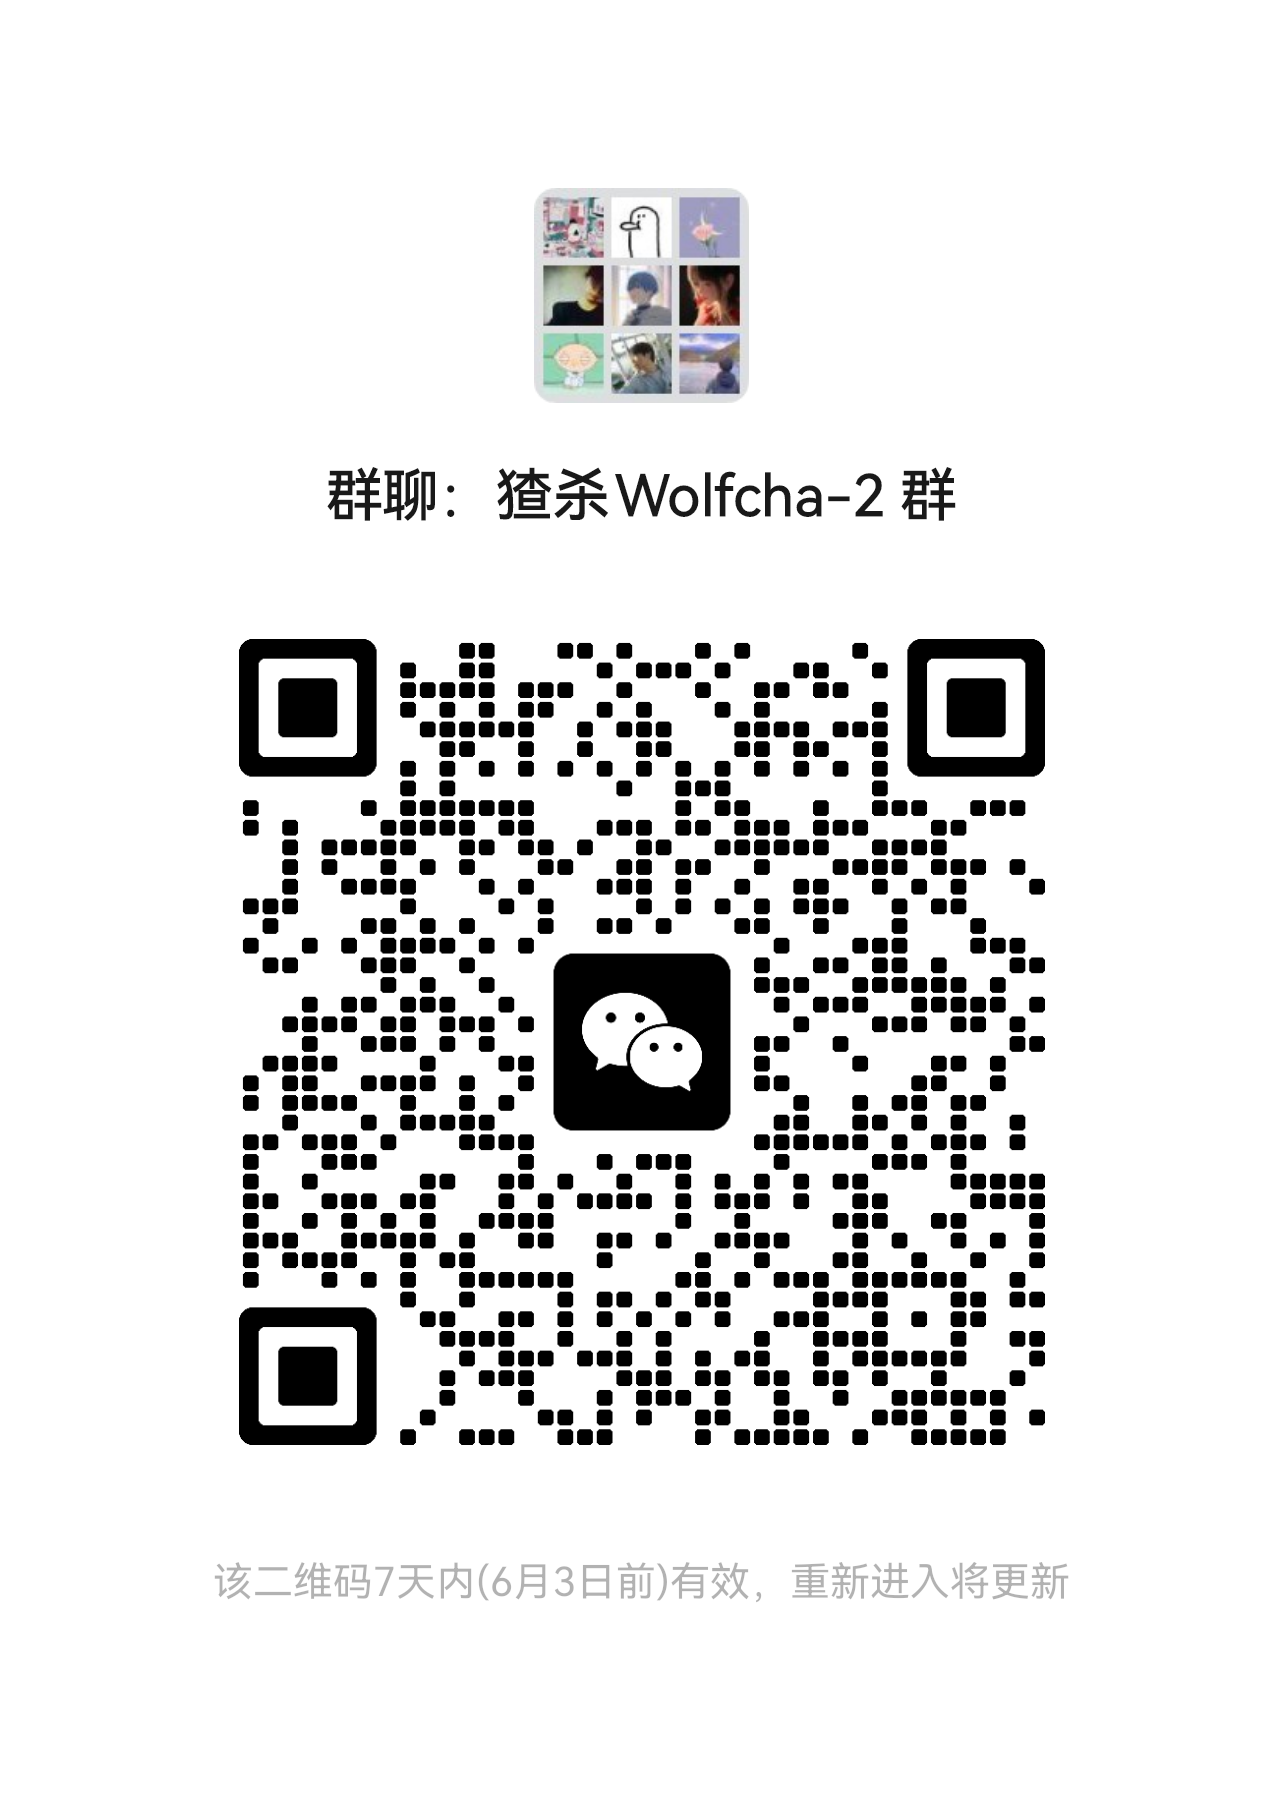
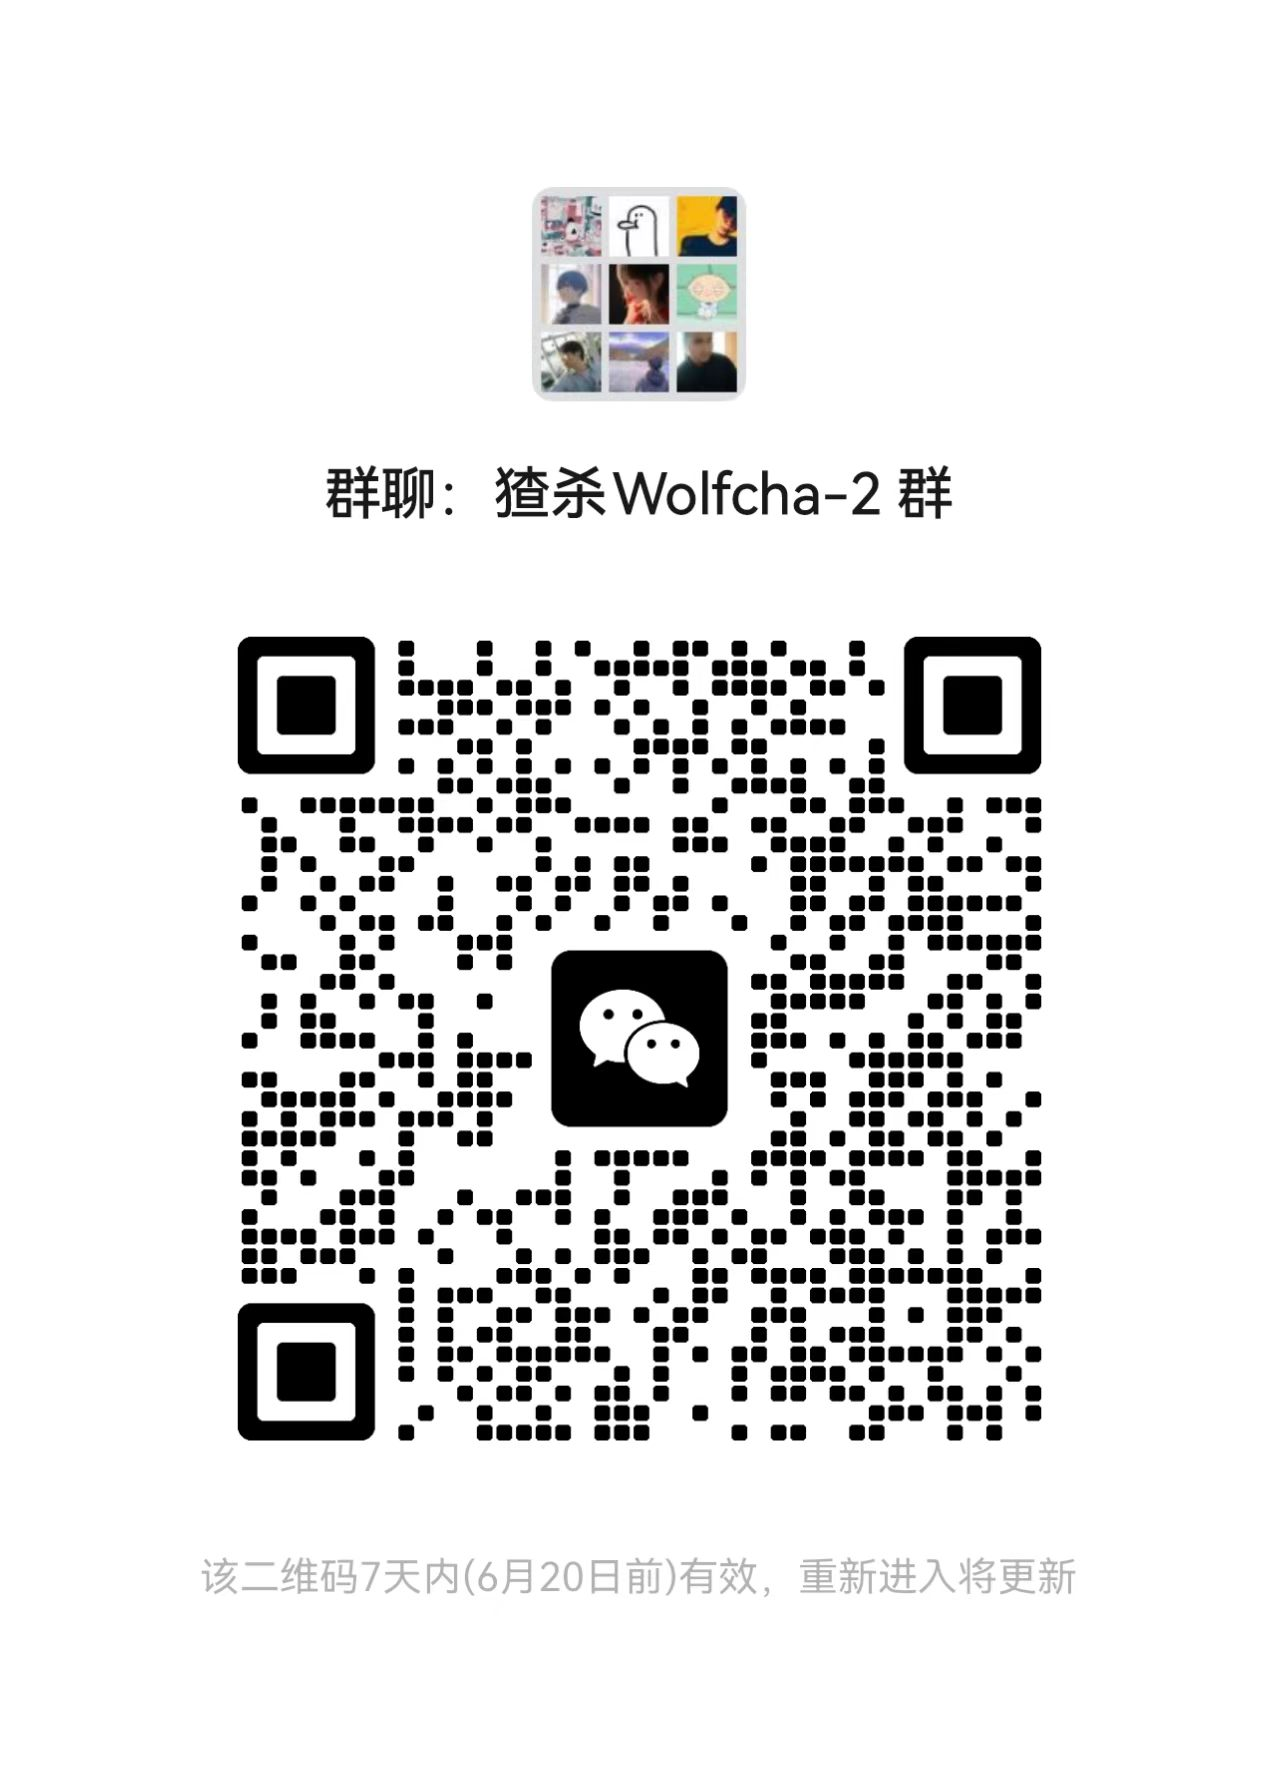
嵌入观猹评分徽章 + 更新进群二维码
- 首页欢迎卡片内嵌观猹官方 style=1 评分徽章，点击跳转评论页
- 桌面右侧恢复成与 Bailian/TokenDance 同款的观猹圆形赞助致谢章
- 新增 welcome.watchaRating.{title,ariaLabel} 中英 i18n key
- 更新 public/group.png（进群二维码）

diff --git a/src/components/game/WelcomeScreen.tsx b/src/components/game/WelcomeScreen.tsx
@@ -1066,7 +1066,7 @@ export function WelcomeScreen({
             note={t("welcome.sponsor.cards.tokendance")}
           />
 
-          {/* Sponsor card - Watcha (右侧居中) */}
+          {/* Sponsor card - Watcha (right-center) */}
           <SponsorCard
             sponsorId="watcha"
             href="https://watcha.cn/"
@@ -1300,6 +1300,27 @@ export function WelcomeScreen({
                 </div>
               ) : null}
             </div>
+
+            {/* Watcha official rating badge (style=1) — sits inside the welcome card */}
+            <div className="mt-5 flex justify-center">
+              <a
+                href="https://watcha.cn/products/wolfcha?tab=review&utm_source=product-badge&utm_content=review"
+                target="_blank"
+                rel="noopener noreferrer"
+                className="wc-watcha-paper-badge"
+                aria-label={t("welcome.watchaRating.ariaLabel")}
+                title={t("welcome.watchaRating.title")}
+              >
+                <img
+                  src="https://watcha.cn/api/v2/products/wolfcha/badge?style=1&dark=false"
+                  alt={t("welcome.watchaRating.title")}
+                  width={360}
+                  loading="lazy"
+                  draggable={false}
+                />
+              </a>
+            </div>
+
             <div className="mt-7 text-center wc-contract-body">
               <div className="wc-contract-oath">
                 {t("welcome.oath.line1")}

diff --git a/src/app/globals.css b/src/app/globals.css
@@ -644,6 +644,30 @@ input[type="submit"]:not(:disabled),
   font-family: var(--font-chinese), ui-serif, Georgia, serif;
 }
 
+/* Watcha official badge embedded inside the welcome card */
+.wc-watcha-paper-badge {
+  display: inline-block;
+  text-decoration: none;
+  border: 0;
+  outline: none;
+  transition: transform 0.3s cubic-bezier(0.34, 1.56, 0.64, 1);
+}
+
+.wc-watcha-paper-badge img {
+  display: block;
+  width: 100%;
+  max-width: 360px;
+  height: auto;
+  border: 0;
+  outline: none;
+  user-select: none;
+  -webkit-user-drag: none;
+}
+
+.wc-watcha-paper-badge:hover {
+  transform: scale(1.02);
+}
+
 .wc-contract-oath {
   font-size: 14px;
   line-height: 1.9;
@@ -4214,6 +4238,8 @@ input[type="submit"]:not(:disabled),
 .wc-sponsor-card--watcha .wc-sponsor-card__name {
   font-size: 16px;
 }
+
+/* ========== Watcha Rating Badge (replaces the desktop Watcha sponsor stamp) ========== */
 
 .wc-sponsor-card--bottom-right {
   bottom: 18%;
